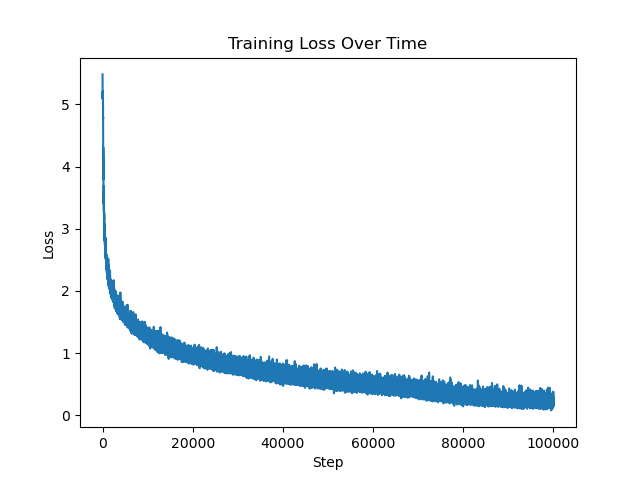
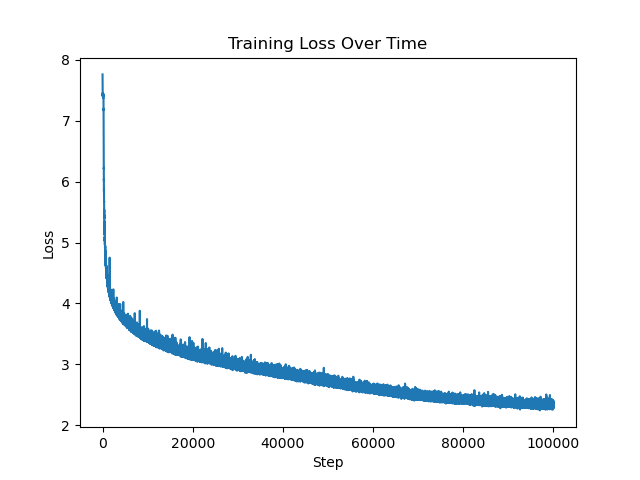
increased vocab size & DDP

diff --git a/train.py b/train.py
@@ -5,18 +5,28 @@ from torch.nn import functional as F
 import torch.optim as optim
 import matplotlib.pyplot as plt  
 import time
+import os
+from torch.nn.parallel import DistributedDataParallel as DDP
+from torch.distributed import init_process_group, destroy_process_group
 
+ddp = int(os.environ.get('RANK', -1)) != -1 # is this a ddp run?
+if ddp:
+    init_process_group(backend='nccl')
+    ddp_rank = int(os.environ['RANK'])
+    ddp_local_rank = int(os.environ['LOCAL_RANK'])
+    ddp_world_size = int(os.environ['WORLD_SIZE'])
+    master_process = ddp_rank == 0
 
 torch.manual_seed(1337)
-random.seed(1337)
+#random.seed(1337)
 
-batch_size = 264  # 3000
+batch_size = 2640  # 3000
 block_size = 8
 n_embd = 32 
 n_head = 4
 n_layer = 4
 dropout = 0.2
-vocab_size = 202
+vocab_size = 2002
 device = torch.device('cuda' if torch.cuda.is_available() else 'cpu')  
 
 class Head(nn.Module): 
@@ -116,8 +126,8 @@ class TransformerModel(nn.Module):
         
 # Generate batch
 def DataLoader():
-    a = random.randint(0, 100) # 101
-    b = random.randint(0, 100) # 101
+    a = random.randint(0, 1000) # 101
+    b = random.randint(0, 1000) # 101
     target = a + b             # 201
     q = [a, 0, 0, b, 0,0,0,0]
     return q, target
@@ -125,7 +135,13 @@ def DataLoader():
 torch.set_float32_matmul_precision('high')
 model = TransformerModel(vocab_size, n_embd)
 model = torch.compile(model)
-model.to(device)
+
+
+if ddp:
+    torch.cuda.set_device(ddp_local_rank)
+    model = model.to(device)
+    model = DDP(model, device_ids=[ddp_local_rank])
+
 optimizer = optim.AdamW(model.parameters(), lr=3e-3)
 losses = []
 
@@ -155,17 +171,22 @@ for step in range(100000):
         print(f"Step {step}, Loss: {loss.item()}, dt: {dt:.2f}ms")
 print(f"Final Loss: {loss.item()}") 
 
+
+
 # -------------------------------------------------
 model.eval()
 all = 100
 
 correct = 0
 wrong = 0
+raw_model = model.module if ddp else model # always contains the "raw" unwrapped model
 
 for _ in range(all):
     q, t = DataLoader()
     context = torch.tensor([q], device = device)  # Shape (1, T)
-    generated_sequence = model.generate(context, max_new_tokens=1).tolist()
+
+ 
+    generated_sequence = raw_model.generate(context, max_new_tokens=1).tolist()
     generated_sequence = generated_sequence[0]
     
     #[a, 0, 0, b, 0,0,0,0]
@@ -203,3 +224,9 @@ plt.savefig('training_loss.png')
 #1.05
 
 # 0.28
+
+# 1000 
+# 2.326 :(
+if ddp:
+    destroy_process_group()
+# torchrun --standalone --nproc_per_node=2 train.py
